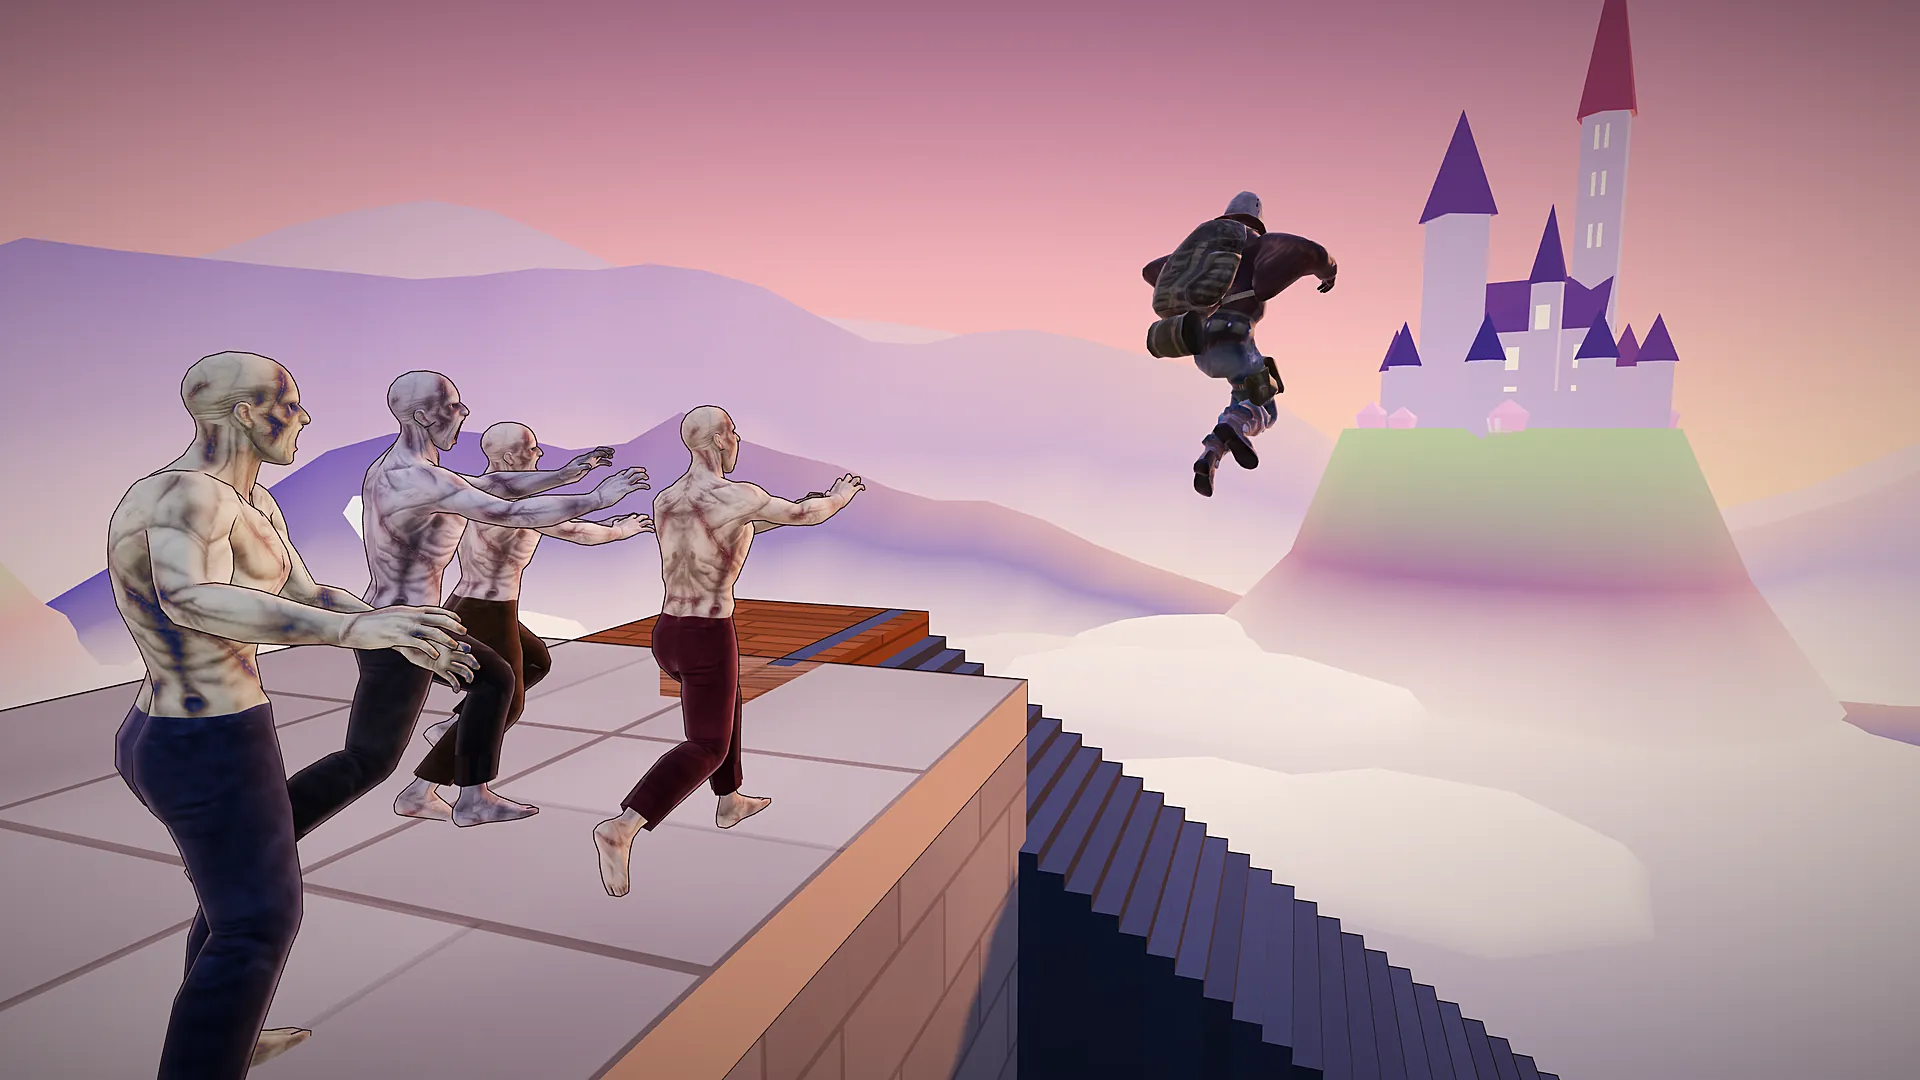
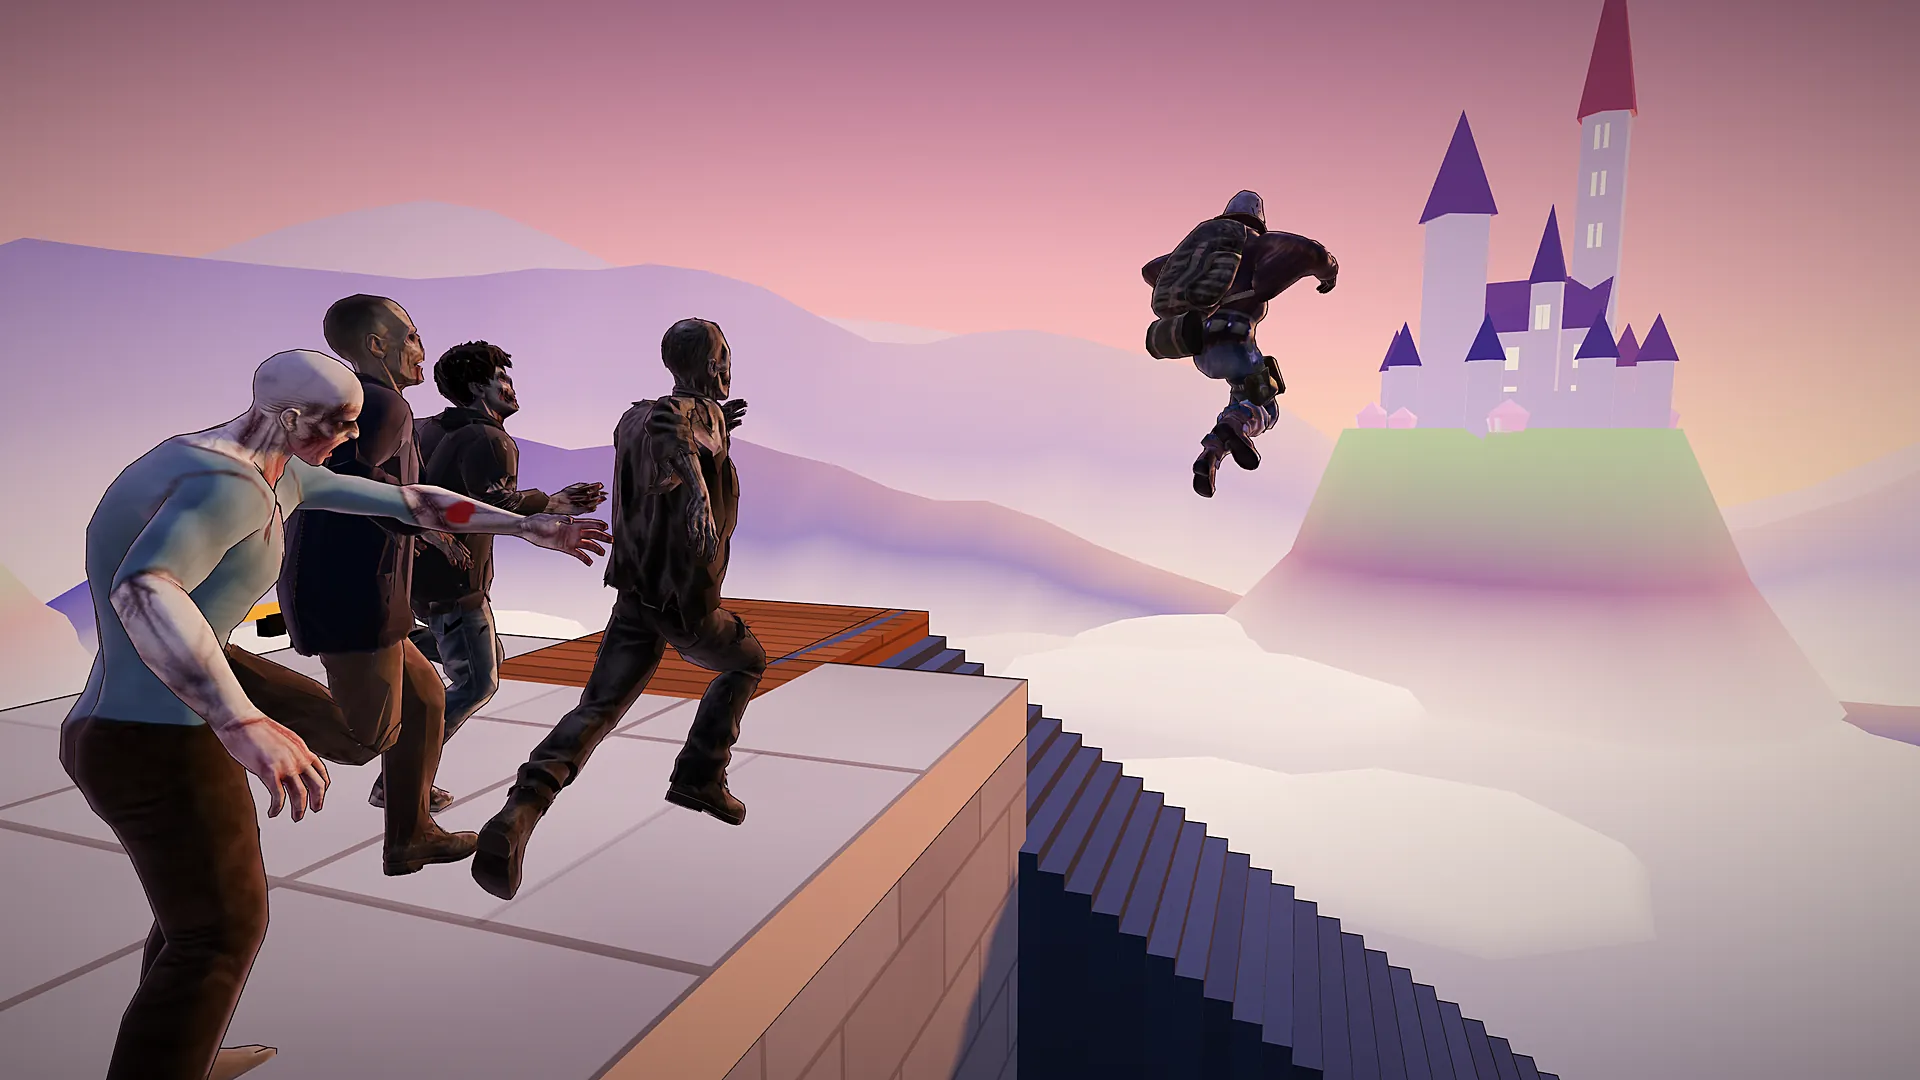
ホームの絵を今のゾンビで撮り直し
11/24 にゾンビの見た目（Unity の体の服・髪、町の人4種）が変わったのに、ホームと初回カードの絵は
11/23 の裸の体のままだった。Y8 に 11/27 に提出したビルドと同じ画像に差し替える。

stage-shot.cjs に、追う4体のモデルを指定する WANT（省略可）を足し、撮影条件を promo/README.md に書いた。
表紙3枚は撮り直していない。

diff --git a/promo/README.md b/promo/README.md
@@ -3,13 +3,16 @@
 `size_check.sh` と `tools/make_release_zip.py` の対象外（直下の html/js/css/svg と `assets/` だけが出荷物）。
 
 ## covers/（2026-11-23 撮り直し。11/21 版は街の見た目を直す前の色だった）
+**2026-11-27：ホームの絵だけ、今のゾンビ（服・髪を描いた Unity の体と、町の人3種）で撮り直した。表紙3枚は 11/23 のまま（服を描く前の体）。次に表紙を使う前に撮り直す。**
+
 CrazyGames の必須サイズ（横 1920x1080・縦 800x1200・正方形 800x800）。文字はタイトルだけ（CrazyGames は「Play」「New」などの文字を禁止）。
 ホームの絵・初回カード（`assets/lobby/old-town-chase.webp`）と同じ場面：旧市街の東、高さ14.4mの屋上の縁から、人間が雲海の上へ跳ぶ。ゾンビ4体が縁で手を伸ばし、奥に城の岩山。
 
 作り直し方（ゲーム内のカメラで撮る。ローカルで `python3 -m http.server 8899` を立てておく）:
 1. `stage-shot.cjs` で撮影。使った設定：
    `WARM=60 HIDEPOLES=1 W=3200 H=1800 SLOTS='[[0.9,0.0,0.2,1.0],[1.8,-0.7,-0.15,1.05],[2.5,0.4,0.3,0.97],[1.2,-1.4,0.0,1.0]]' SPECS='[{"id":"hero","x":46,"z":-10,"h":14.4,"a":2.749,"apex":8,"runner":[2.0,1.3,1.0]}]' CAMS='[{"n":"E6","f":-3.0,"s":3.4,"u":1.8,"tf":2.2,"ts":-1.2,"tu":1.0,"fov":58}]'`
-   - SLOTS は1体ずつ [縁から後ろへm, 横へm, 向きのずれ(rad), 大きさ]。同じモデルなので、向き・大きさ・歩きの位相をずらして別々の体に見せる。
+   - 11/27 のホームの絵は、上の設定に `WANT=zombie-decayed-man.glb,zombie-old-worker.glb,zombie-gunrun-standard.glb,zombie-hoodie.glb` を足した（追う4体のモデルを SLOTS の順に指定。手前は Unity の体）。服の色や腕の姿勢は撮るたびに変わるので、同じ絵にはならない。ゾンビが1体も写らないことがある（11/27 は `main` で3回中1回。原因は未調査）ので、撮った絵は必ず目で確認する。
+   - SLOTS は1体ずつ [縁から後ろへm, 横へm, 向きのずれ(rad), 大きさ]。向き・大きさ・歩きの位相もずらして、体ごとの違いを出す。
    - `runner` は人間を置く位置 [縁から先へm, 上へm, 横へm]（跳びのアニメーションはそのまま）。
    - 写さない物：フックの印・ロープ台・ドカン・光の柱・細い柱・拾える物・カメラに付いた白い帯。
    - 候補の縁は `gap-scan`（高い屋上の縁の一覧）から選んだ。x=21,z=-6 と x=46,z=-10 が雲海と城を背にできる。
